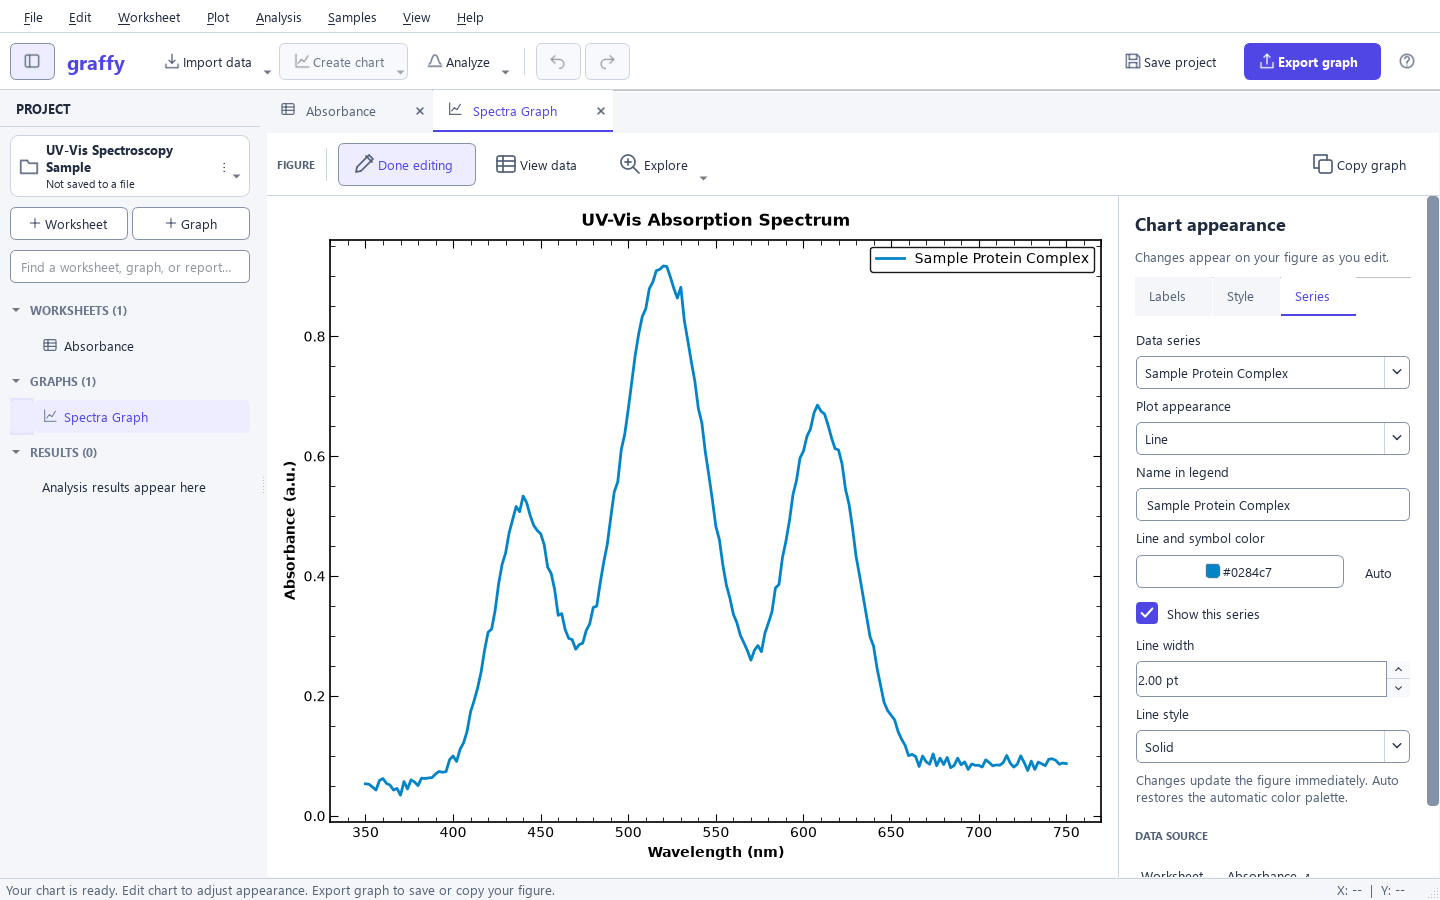
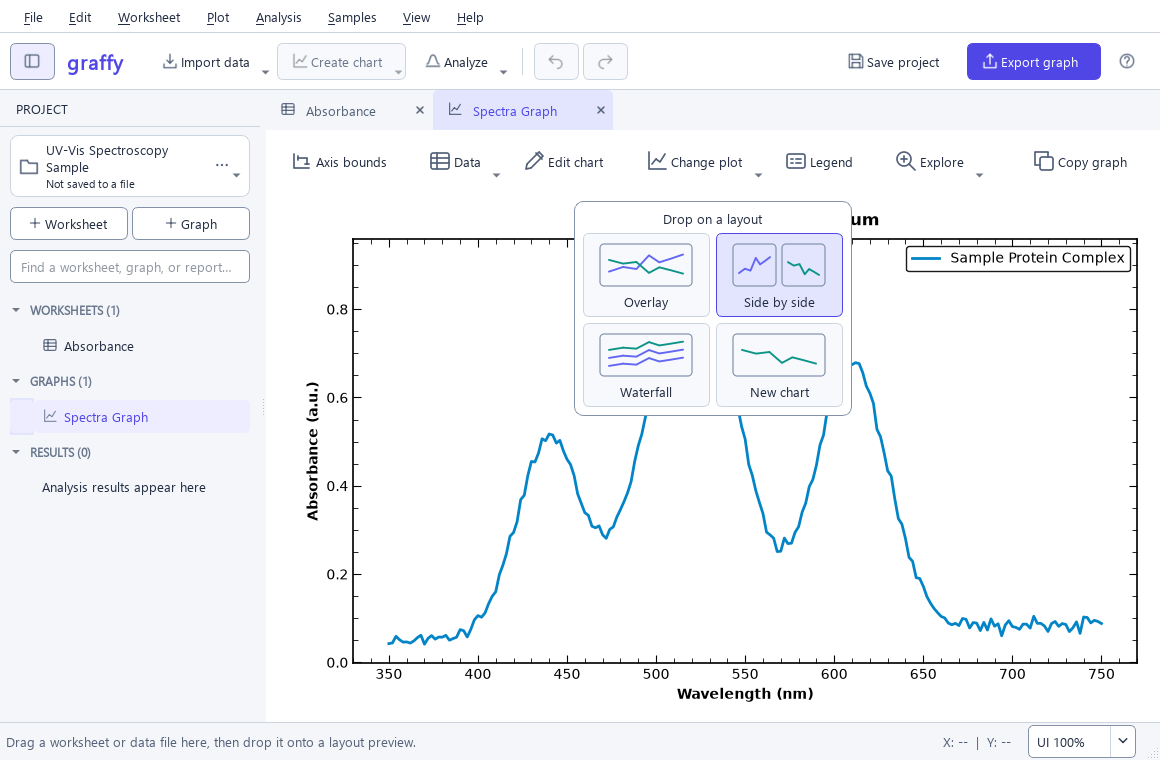
Refresh Graffy 1.0.7 download and installation guidance

diff --git a/START HERE.html b/START HERE.html
@@ -1,1 +1,1 @@
-<!doctype html><html lang="en"><meta charset="utf-8"><meta name="viewport" content="width=device-width,initial-scale=1"><title>Start with Graffy</title><style>body{font:18px/1.6 system-ui,sans-serif;background:#f3f7fb;color:#183247;margin:0}main{max-width:780px;margin:60px auto;padding:36px;background:white;border-radius:24px}h1{font-size:44px;line-height:1.1}a{color:#007c9d}li{margin:14px 0}.note{padding:20px;background:#eaf6fb;border-radius:12px}</style><main><p>WELCOME TO GRAFFY</p><h1>One app. No technical setup.</h1><p>Make scientific graphs, analyze data, and export figures.</p><p><a href="https://graffy-scientific-graphing.recentdream1.chatgpt.site"><strong>Graffy download website and installation help →</strong></a></p><h2>On Windows</h2><ol><li>Double-click <strong>Start Graffy.vbs</strong> beside this guide.</li><li>If Graffy is not installed, follow the installer. Click <strong>Install</strong>, then <strong>Finish</strong>.</li><li>After installing, open <strong>Graffy</strong> from your desktop or Start menu. No Python window is needed.</li></ol><h2>On a Mac</h2><p>Download the Mac disk image for your chip from the <a href="https://graffy-scientific-graphing.recentdream1.chatgpt.site">official downloads</a>. Open it, drag Graffy into Applications, then open Graffy from Applications. App downloads appear after the first packaged release is published.</p><p><a href="dist/Graffy_Windows_Setup.exe">Install or update Graffy for Windows using the installer in this folder</a>.</p><h2>Inside the app</h2><p>Choose Import my data, Open a saved project, Try an example, or Start a blank worksheet. Select columns, choose 2 Create chart, then 3 Export graph. Use Edit chart for titles, labels, and style.</p><div class="note"><strong>Updating is simple.</strong> Graffy tells you when a new version is ready. Download it in the app, save your work, close Graffy, and run the new installer. On Mac, replace the app in Applications.</div><p>Development tools are in <strong>scripts</strong>. Ordinary app users can ignore them.</p><p>Current preview builds are unsigned; Windows or macOS may display a publisher warning. <a href="docs/INSTALLING.md">Installation details</a>.</p></main></html>
+<!doctype html><html lang="en"><meta charset="utf-8"><meta name="viewport" content="width=device-width,initial-scale=1"><title>Start with Graffy</title><style>body{font:18px/1.6 system-ui,sans-serif;background:#f3f7fb;color:#183247;margin:0}main{max-width:780px;margin:60px auto;padding:36px;background:white;border-radius:24px}h1{font-size:44px;line-height:1.1}a{color:#007c9d}li{margin:14px 0}.note{padding:20px;background:#eaf6fb;border-radius:12px}</style><main><p>WELCOME TO GRAFFY</p><h1>One app. No technical setup.</h1><p>Make scientific graphs, analyze data, and export figures.</p><p><a href="https://graffy-scientific-graphing.kylekimura2006.chatgpt.site"><strong>Graffy download website and installation help →</strong></a></p><h2>On Windows</h2><ol><li><a href="https://github.com/MrDotTickles/Graffy/releases/latest/download/Graffy_Windows_Setup.exe">Download the latest Windows installer</a>.</li><li>Open it and follow the setup prompts.</li><li>After installing, open <strong>Graffy</strong> from your desktop or Start menu. No Python window is needed.</li></ol><h2>On a Mac</h2><p>Download the Mac disk image for your chip from the <a href="https://graffy-scientific-graphing.kylekimura2006.chatgpt.site">official downloads</a>. Open it, drag Graffy into Applications, then open Graffy from Applications.</p><h2>Inside the app</h2><p>Choose <strong>Import data</strong>, open a saved project, or try the built-in example. Use <strong>Create chart</strong> and <strong>Export graph</strong> when your data is ready.</p><div class="note"><strong>Updating is simple.</strong> Use <strong>Help → Check for Updates</strong> or <strong>View update</strong> in the app. Download it, save your work, close Graffy, and run the new installer. On Mac, replace the app in Applications.</div><p>Working on the code? In a configured Git checkout, <strong>Start Graffy.vbs</strong> opens your current source. The Start menu opens the installed app.</p><p>Current preview builds are unsigned; Windows or macOS may display a publisher warning. <a href="docs/INSTALLING.md">Installation details</a>.</p></main></html>

diff --git a/README.md b/README.md
@@ -1,8 +1,8 @@
 # Graffy
 
-**[Download Graffy for Windows or Mac](https://graffy-scientific-graphing.recentdream1.chatgpt.site)** · No Python or command prompt needed.
+**[Download Graffy for Windows or Mac](https://graffy-scientific-graphing.kylekimura2006.chatgpt.site)** · No Python or command prompt needed.
 
-**Already have this folder? Open `START HERE.html`, or double-click `Start Graffy.vbs` on Windows.**
+**Already have this folder? Open `START HERE.html` for the install and update guide.**
 
 After installation, use the Graffy desktop/Start menu shortcut on Windows, or Graffy in Applications on Mac. No terminal or separate Python installation is needed for packaged apps.
 
@@ -19,7 +19,7 @@ analyze peaks, and export publication-ready figures from one desktop app.
 | Mac with Apple Silicon (M-series) | [**Download for Mac — Apple Silicon**](https://github.com/MrDotTickles/Graffy/releases/latest/download/Graffy_macOS_arm64.dmg) |
 | Mac with an Intel processor | [**Download for Mac — Intel**](https://github.com/MrDotTickles/Graffy/releases/latest/download/Graffy_macOS_x86_64.dmg) |
 
-**Measured Windows build:** about 72 MB to download; about 244 MB of app files after installation.
+**Measured Windows 1.0.7 build:** 71.8 MB to download and 243.6 MB of app files after installation.
 Python and scientific libraries are included. [Size details](docs/PACKAGE_SIZE.md).
 
 [All releases and portable downloads](https://github.com/MrDotTickles/Graffy/releases/latest)
@@ -33,12 +33,14 @@ DMG and drag Graffy into Applications. These builds are currently unsigned, so y
 operating system may display a warning or block launch; see the installation guide.
 Linux, phones, tablets, and Chromebooks do not currently have supported installers.
 
-![Graffy showing a spectroscopy worksheet and scientific graph](docs/images/graffy.png)
+![Graffy showing the four drag-to-plot layout previews over a sample spectroscopy chart](docs/images/graffy.png)
 
 ## What you can do
 
 - Import CSV and Excel data, edit worksheets, apply formulas, and undo changes.
 - Create scatter, line, bar, error-bar, distribution, waterfall, and multi-panel plots.
+- Drop data onto a chart to preview a layout, and edit numeric axis bounds directly.
+- Save chart setups and import presets, repeat fits or peak analysis across worksheets, and export several charts together.
 - Fit linear, polynomial, Gaussian, exponential, Hill dose-response, and other models.
 - Find peaks, integrate signals, smooth data, calculate derivatives, and run statistics.
 - Style figures with scientific publication themes and export PNG, PDF, SVG, and TIFF.
@@ -47,7 +49,7 @@ Linux, phones, tablets, and Chromebooks do not currently have supported installe
 ## Updates
 
 Graffy checks for updates after opening and every six hours while running. A new
-version appears in the update center with release notes and a download button.
+version appears in a banner with a **View update** button for release notes and the download.
 You can also use **Help → Check for Updates** or disable automatic checks there.
 Save your work and quit Graffy before installing. Windows reuses your installed
 location; Mac users replace the app in Applications. Saved project files are separate.
@@ -62,7 +64,7 @@ before publishing a complete release. Keep the repository public for public down
 
 To run from source, install Python 3.13, create a virtual environment, and install
 `requirements-dev.txt`. Then use `scripts/Launch_Graffy.bat`, `scripts/Launch_Graffy.command`, or
-`python main.py`. App users should use the downloads above.
+`python main.py`. In a configured Windows checkout, `Start Graffy.vbs` opens the local code. Use the Start menu or Applications for the installed release.
 
 | Folder | Contents |
 | --- | --- |
@@ -84,8 +86,7 @@ the launch and release buttons run it automatically if missing. Running source
 code locally will recreate several hundred megabytes of scientific libraries.
 
 Use **Import data** for files or pasted text. The preview shows detected headers,
-numeric columns, and values that will be left blank. **Plot → Import data into a graph**
-and dropping files onto a chart open the same preview with a chart destination.
+numeric columns, and values that will be left blank. **Plot → Import data into a graph** opens the import preview. When you drag a data file onto a chart, choose a layout preview first.
 [Import and dialog guide](docs/IMPORT_AND_DIALOGS.md).
 
 The redesigned desktop workflow and validation notes are documented in [Desktop redesign](docs/DESKTOP_REDESIGN.md). Closing tabs keeps project data intact; reopen items from the project panel.

diff --git a/docs/INSTALLING.md b/docs/INSTALLING.md
@@ -1,10 +1,9 @@
 # Install and update Graffy
 
-Start at the [Graffy download website](https://graffy-scientific-graphing.recentdream1.chatgpt.site). Choose Windows or Mac and follow the three installation steps shown there.
+Start at the [Graffy download website](https://graffy-scientific-graphing.kylekimura2006.chatgpt.site). Choose Windows or Mac and follow the three installation steps shown there.
 
 Download only from [Graffy's official releases](https://github.com/MrDotTickles/Graffy/releases/latest).
 You do not need Python, Git, a command prompt, or a GitHub account.
-The links below work after a packaged release has been published.
 
 ## Windows
 
@@ -14,7 +13,7 @@ The links below work after a packaged release has been published.
 
 The app installs for your Windows account without an administrator password.
 This package targets 64-bit Windows; there is no 32-bit installer.
-The measured build downloads about 71.1 MB and installs about 241.1 MB of app files.
+The Windows 1.0.7 download is 71.8 MB and installs 243.6 MB of app files.
 The installer uses the standard per-user location and creates launch shortcuts.
 See [package sizes](PACKAGE_SIZE.md) for details.
 
@@ -36,7 +35,7 @@ The app is built on macOS 15; older macOS versions have not been validated.
 
 ## If your computer blocks the app
 
-The initial builds are unsigned. Windows can show an unrecognized-publisher warning,
+Current preview builds are unsigned. Windows can show an unrecognized-publisher warning,
 and macOS can block an app that has not been Developer ID signed and notarized.
 Signing and notarization are still needed for a smoother public installation.
 Do not disable your antivirus or operating-system protections.
@@ -57,7 +56,7 @@ choose Help → Check for Updates. Download the new package, save your work, and
 
 Keep `.kgraph` project files in Documents or another personal folder. Do not keep
 personal files inside the app bundle or its `_internal` dependency folder.
-An older app that lacks automatic checks needs one manual update to gain them.
+For a manual update, use the same latest download links above.
 
 ## Need help?
 

diff --git a/RELEASING.md b/RELEASING.md
@@ -33,6 +33,7 @@ A normal push runs tests without publishing a new version.
 The workflow tests all three target platforms, launches each compiled app briefly,
 creates the Windows installer and Mac disk images, and uploads all packages to a
 hidden draft. Only a complete set is published. A failed build does not announce an update.
+If packaging fails with a temporary error, retry the failed jobs for that release in GitHub Actions and verify the published downloads.
 
 Keep the repository **public** so everyone can download and the app can check for
 updates without a login. Repository Settings → Actions must allow workflows.
@@ -41,7 +42,7 @@ Organization policy can restrict this. Do not embed GitHub credentials in the ap
 
 ## 3. Give people one link
 
-**Share this link:** https://github.com/MrDotTickles/Graffy
+**Share the [Graffy download website](https://graffy-scientific-graphing.kylekimura2006.chatgpt.site).**
 
 The README begins with download links for Windows, Apple Silicon Mac, and Intel Mac.
 You can also share https://github.com/MrDotTickles/Graffy/releases/latest directly.
